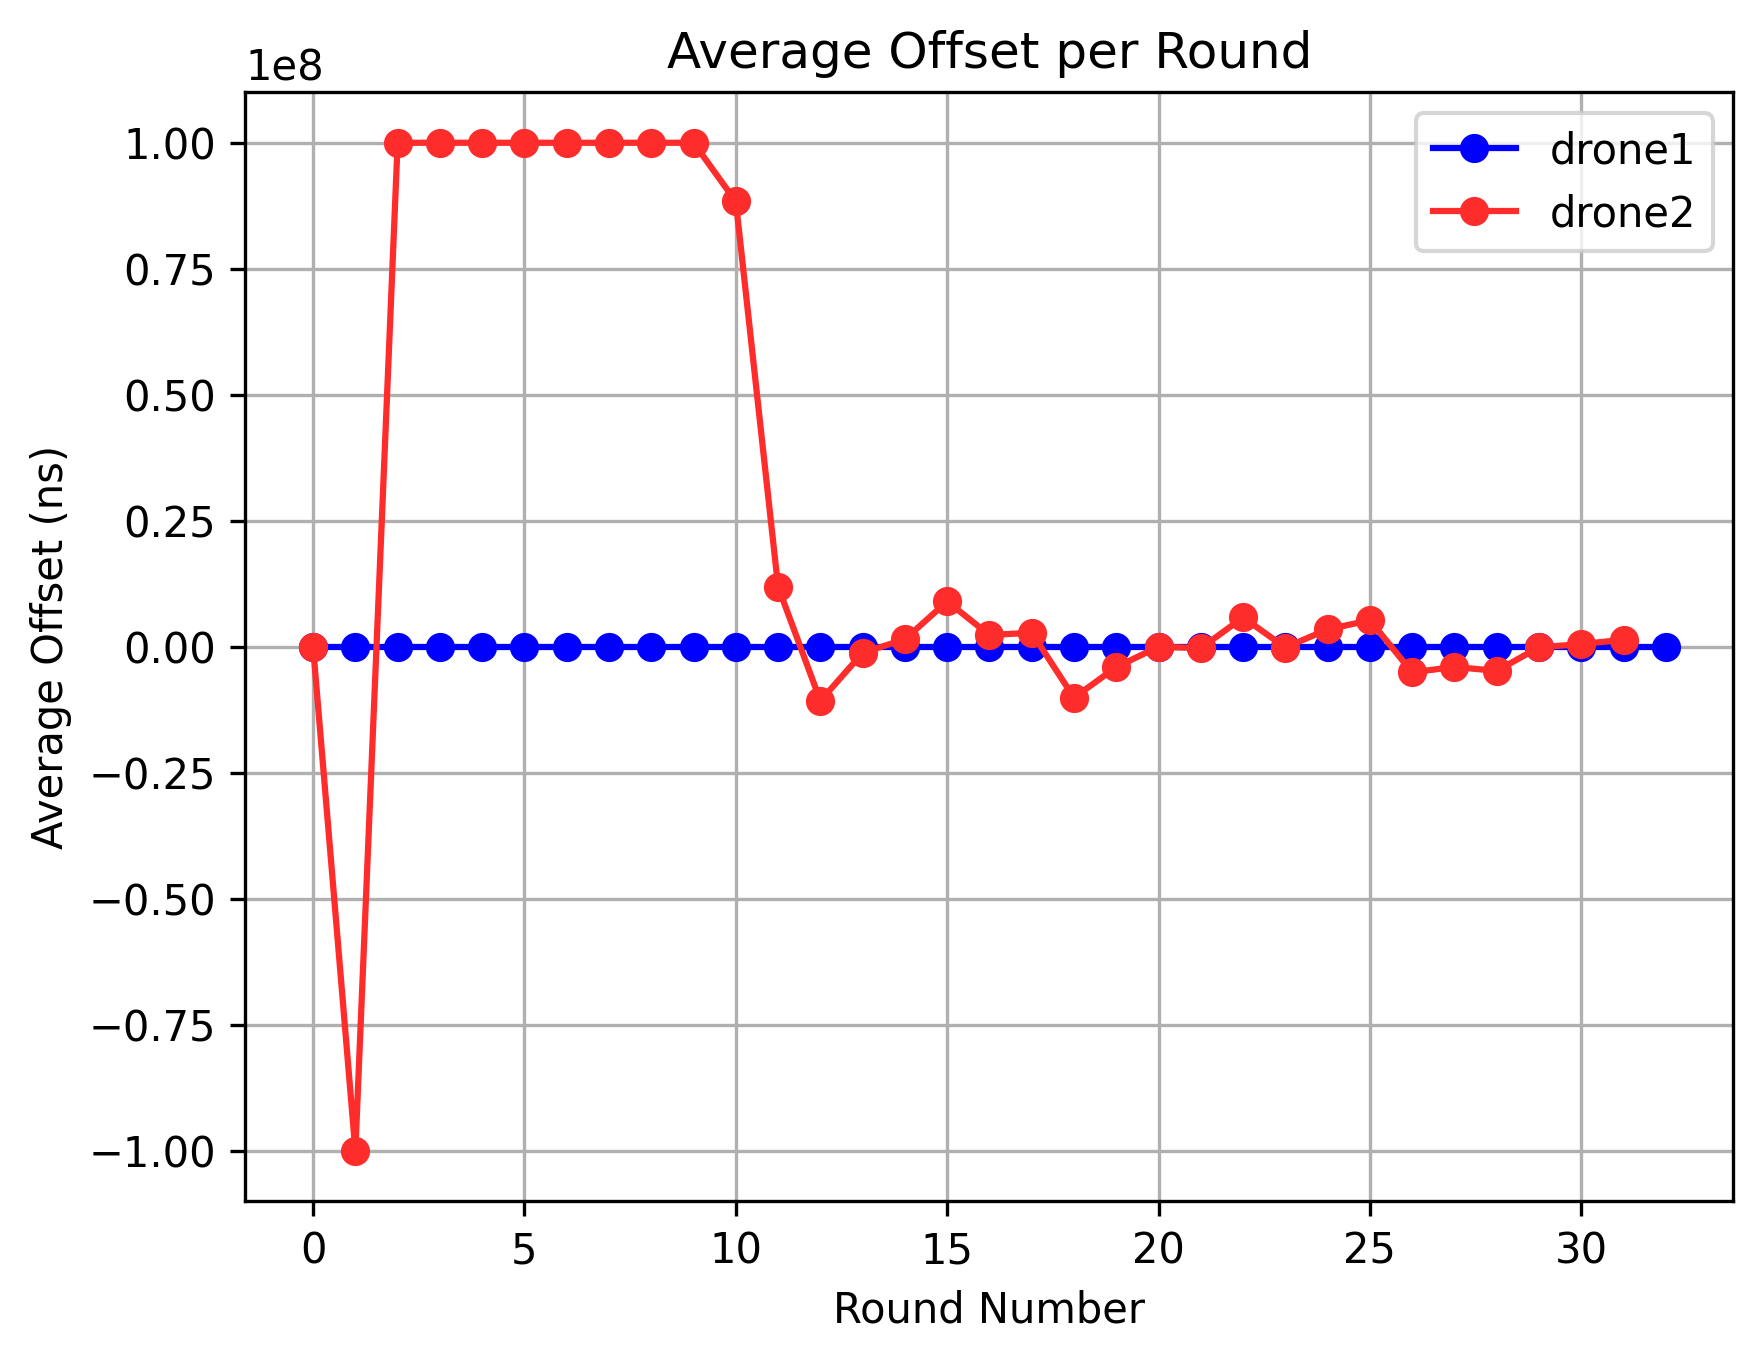
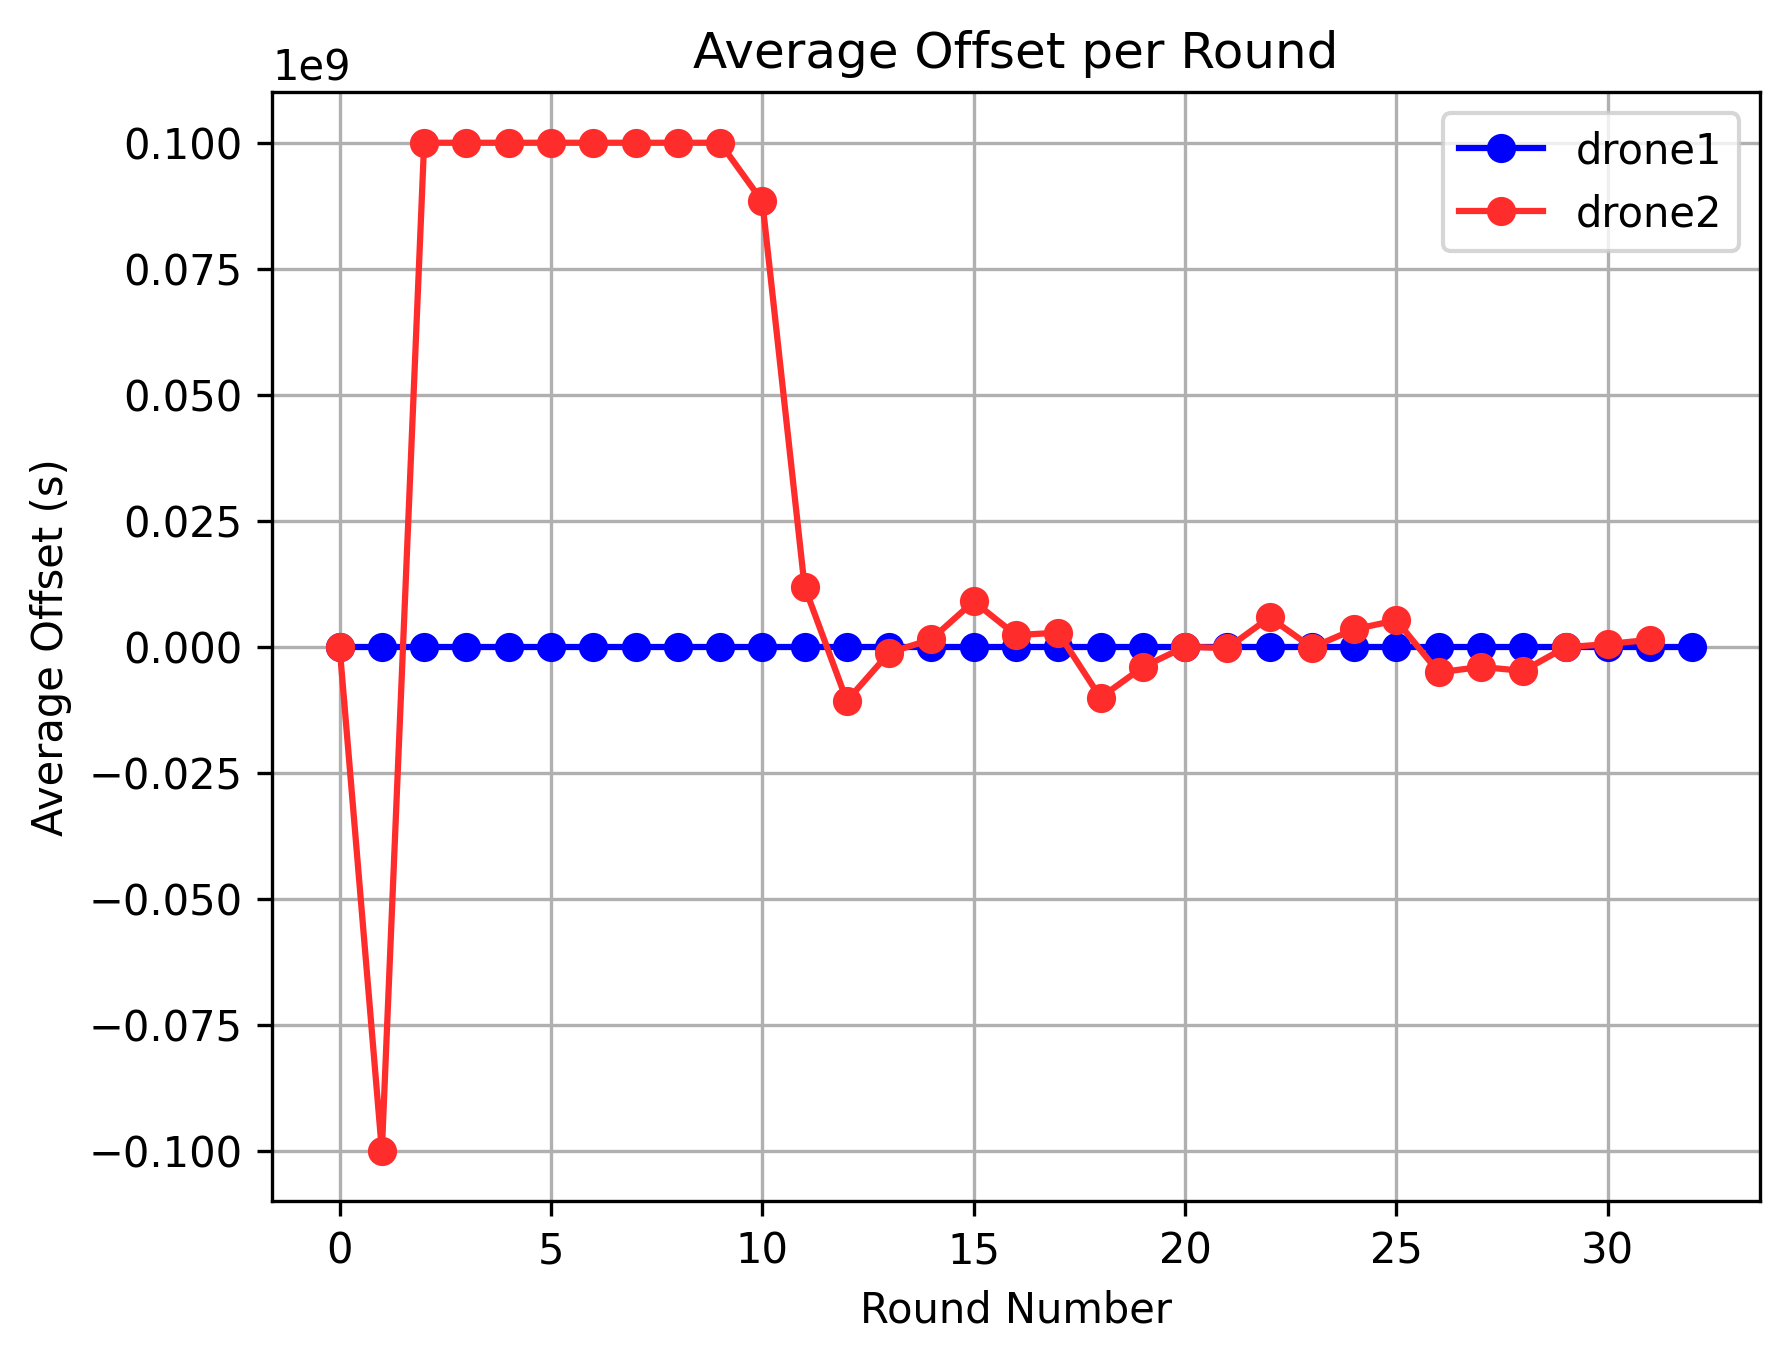
Improved charts

diff --git a/docs/logs/generateReport.py b/docs/logs/generateReport.py
@@ -166,8 +166,9 @@ def build_average_offset_chart(data):
         plt.plot(x, y, marker='o', linestyle='-', color=node_colors[int(node_name.split('drone')[1]) - 1], label = node_name)
     
     plt.xlabel("Round Number")
-    plt.ylabel("Average Offset (ns)")
+    plt.ylabel("Average Offset (s)")
     plt.title("Average Offset per Round")
+    plt.ticklabel_format(axis='y', style='sci', scilimits=(9,9))
     plt.legend()
     plt.grid(True)
 
@@ -186,8 +187,9 @@ def build_total_offset_chart(data):
         plt.plot(x, y, marker='o', linestyle='-', color=node_colors[int(node_name.split('drone')[1]) - 1], label = node_name)
     
     plt.xlabel("Round Number")
-    plt.ylabel("Total Offset (ns)")
+    plt.ylabel("Total Offset (s)")
     plt.title("Total Offset per Round")
+    plt.ticklabel_format(axis='y', style='sci', scilimits=(9,9))
     plt.legend()
     plt.grid(True)
 
